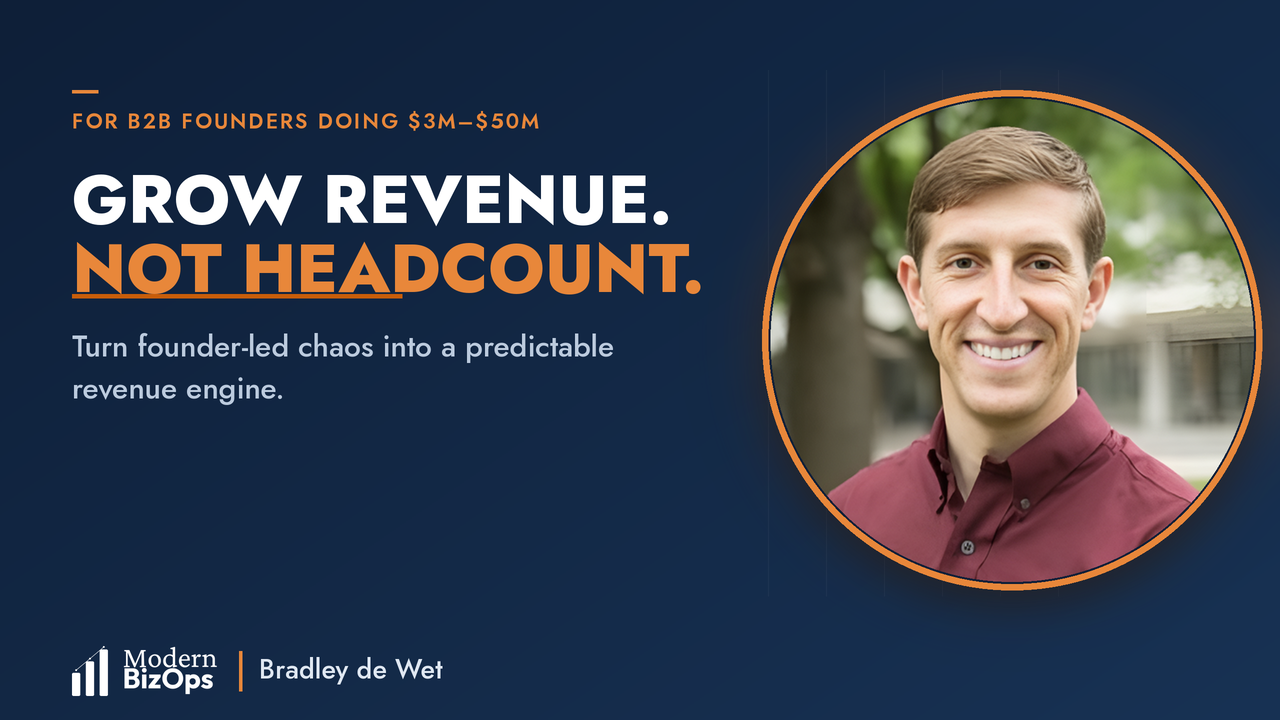
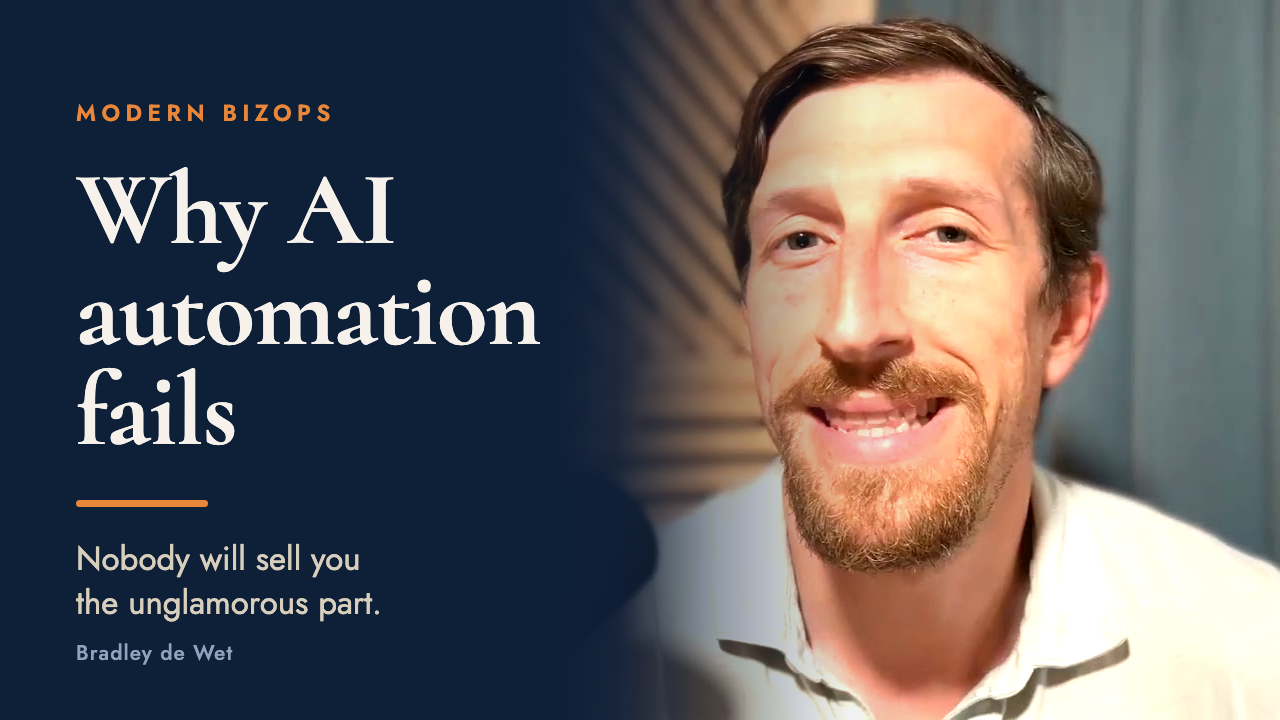
feat(video): swap the homepage VSL to the AI automation cut (#73)
The homepage is the most-seen video surface on the site (42 of 59 pageviews
for Jul 19 to Aug 17 land on /), and it was still playing the VSL for the
retired RevOps coaching offer.

- VIDEO_ID moves to M241NEC30D4, the new unlisted cut.
- The iframe title, the button aria-label and the image alt all read
  "How Founder-Led B2B Companies Grow Revenue Without Growing Headcount"
  until now. That wording is retired twice over: "founder-led" went on
  2026-08-15, and the headcount framing conflicts with current positioning.
  The alt is now descriptive rather than a copy of the heading, which is
  what a screen reader actually needs.
- New poster, matching the YouTube thumbnail exactly so the facade and the
  real preview agree. The source PNG is larger (578 KB vs 459 KB) but
  next/image serves it smaller than the old one at every width: 22.2 KB
  vs 24.2 KB at w=828, 35.6 KB vs 36.8 KB at w=1200, all WebP. No
  conversion needed.
- The play circle was a fixed 80px, which is 9 percent of the poster at
  desktop but 24 percent at phone width. On a 375px viewport it covered
  the "n" of "automation" and the left of Bradley's face. It is now sized
  as a share of the poster, so it sits in the composed gap at every width.
  Desktop is pixel-identical: still 80px, still clearing the text by 44
  and the face by 26 art px.
- Drops the Mechanism comment saying the poster and title were deliberately
  left on pre-pivot positioning. They are not, as of this commit.
[…]

diff --git a/components/VSSLPlayer.jsx b/components/VSSLPlayer.jsx
@@ -3,7 +3,7 @@
 import { useState } from "react";
 import Image from "next/image";
 
-const VIDEO_ID = "MmamkxGpviw";
+const VIDEO_ID = "M241NEC30D4";
 
 export default function VSSLPlayer() {
   const [playing, setPlaying] = useState(false);
@@ -13,7 +13,7 @@ export default function VSSLPlayer() {
       <div className="aspect-video rounded-[14px] overflow-hidden mb-10 shadow-lg">
         <iframe
           src={`https://www.youtube-nocookie.com/embed/${VIDEO_ID}?autoplay=1&rel=0&modestbranding=1&playsinline=1&color=white`}
-          title="How Founder-Led B2B Companies Grow Revenue Without Growing Headcount"
+          title="Why AI Automation Fails for Small and Mid-Sized Businesses"
           allow="accelerometer; autoplay; clipboard-write; encrypted-media; gyroscope; picture-in-picture; web-share"
           allowFullScreen
           referrerPolicy="strict-origin-when-cross-origin"
@@ -27,20 +27,25 @@ export default function VSSLPlayer() {
     <button
       onClick={() => setPlaying(true)}
       className="relative w-full aspect-video rounded-[14px] overflow-hidden mb-10 shadow-lg cursor-pointer group block"
-      aria-label="Play: How Founder-Led B2B Companies Grow Revenue Without Growing Headcount"
+      aria-label="Play: Why AI Automation Fails for Small and Mid-Sized Businesses"
     >
       <Image
         src="/og/watch-poster.png"
-        alt="Video thumbnail: How Founder-Led B2B Companies Grow Revenue Without Growing Headcount"
+        alt="Bradley de Wet on camera, beside the title Why AI automation fails"
         fill
         sizes="(max-width: 768px) 100vw, 900px"
         priority
         className="object-cover"
       />
       <div className="absolute inset-0 flex items-center justify-center bg-navy/30 group-hover:bg-navy/40 transition-colors duration-200">
-        <div className="w-20 h-20 bg-white rounded-full flex items-center justify-center shadow-xl group-hover:scale-105 transition-transform duration-200">
+        {/* Sized as a share of the poster, not a fixed 80px. The thumbnail
+            leaves a deliberate gap between its text block and Bradley's face,
+            and a fixed circle ate both ends of that gap once the poster
+            dropped to phone width. 9% is the desktop size (80px of 900px);
+            the floor keeps it clear of the text at 320px. */}
+        <div className="w-[9%] min-w-[34px] max-w-[80px] aspect-square bg-white rounded-full flex items-center justify-center shadow-xl group-hover:scale-105 transition-transform duration-200">
           <svg
-            className="w-8 h-8 text-amber ml-1"
+            className="w-[40%] h-[40%] text-amber ml-[5%]"
             viewBox="0 0 24 24"
             fill="currentColor"
             aria-hidden="true"

diff --git a/components/home/Mechanism.jsx b/components/home/Mechanism.jsx
@@ -390,10 +390,7 @@ export default function Mechanism() {
             front of it.
           </p>
         </div>
-        {/* The video is demoted from funnel centerpiece to proof asset here.
-            VSSLPlayer and /watch are deliberately untouched: the poster and the
-            title still carry the pre-pivot positioning, and regenerating them
-            is its own piece of work. */}
+        {/* The video is demoted from funnel centerpiece to proof asset here. */}
         <VSSLPlayer />
       </div>
     </Section>

diff --git a/app/watch/page.js b/app/watch/page.js
@@ -59,7 +59,7 @@ export default function WatchPage() {
         {/* CTA copy */}
         <div className="text-center mb-10">
           <h1 className="font-display text-[28px] md:text-[38px] font-semibold text-navy mb-4">
-            Ready to Grow Your Revenue Without Growing Your Team?
+            Ready to Capture More Revenue and Reduce Expenses with AI Automation?
           </h1>
           <p className="font-body text-text-mid text-lg mb-8">
             Book your free discovery call below.
